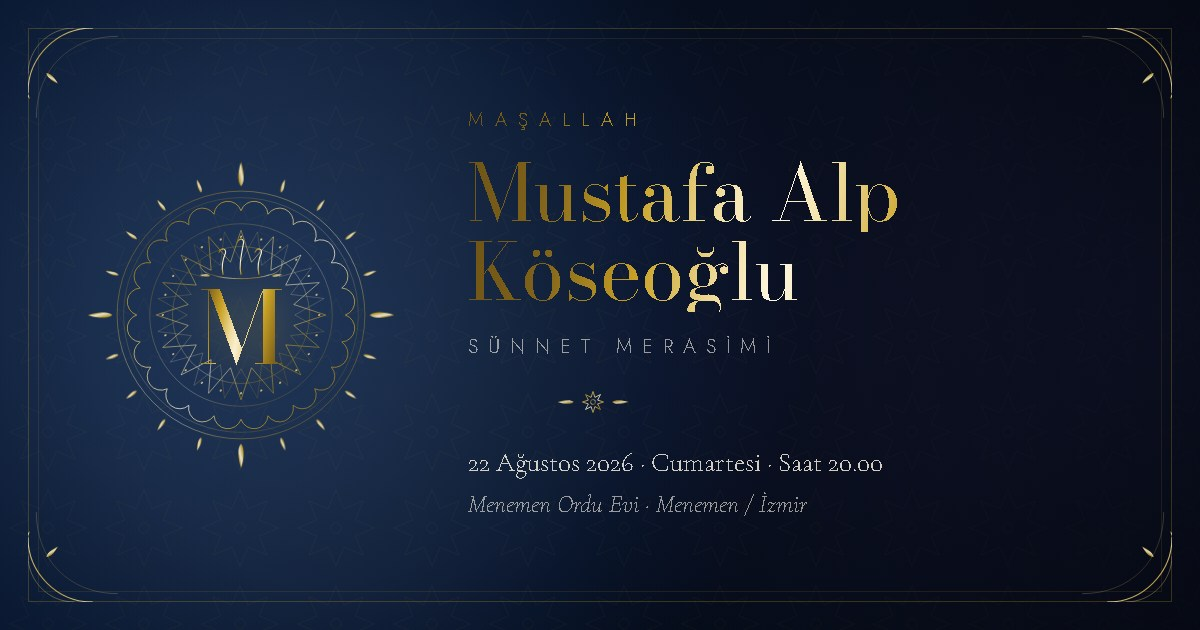
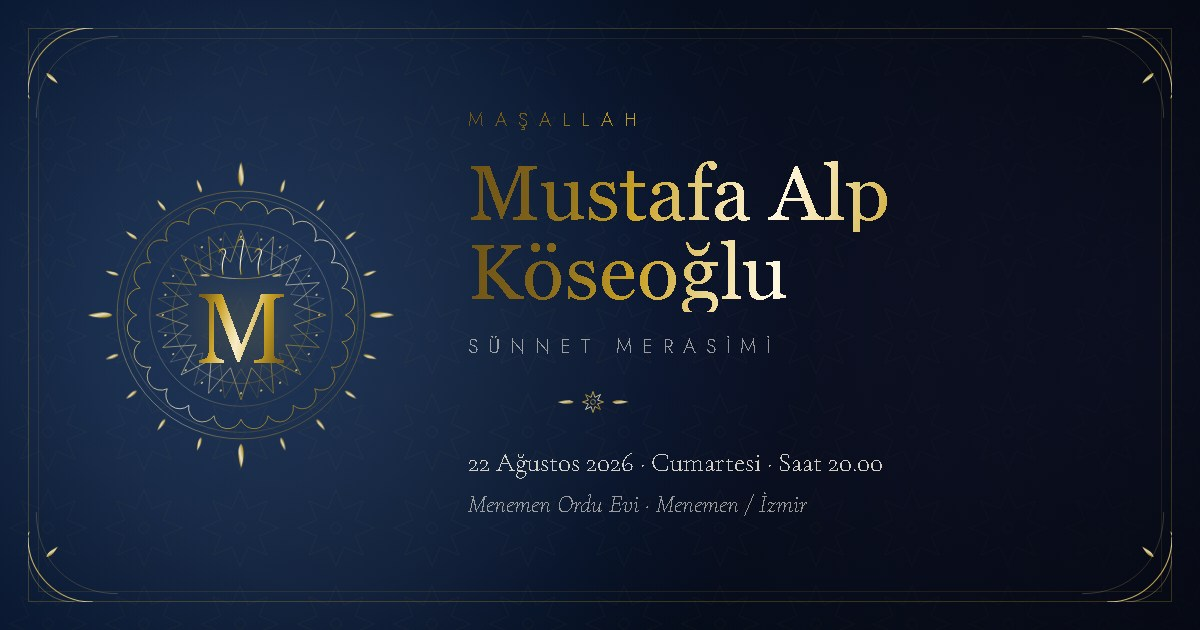
Ebeveyn isimleri tarih/mekan ustune alindi, kucuk metin kontrasti yukseltildi

Changed region(s): [[0.37, 0.2413, 0.7708, 0.5127], [0.1542, 0.4524, 0.2467, 0.6032]]

diff --git a/index.html b/index.html
@@ -51,7 +51,9 @@
   --altin-koyu:  #7E611A;
 
   --fildisi: #F2ECDE;
-  --sis:     rgba(242,236,222,.62);
+  /* Okunabilirlik: koyu zeminde .62 altı ikincil metin yaşlı gözler için zor,
+     tüm silik tonlar yükseltildi. */
+  --sis:     rgba(242,236,222,.82);
 
   --serif-display: "Bodoni Moda", "Didot", "Playfair Display", Georgia, serif;
   --serif-metin:   "Cormorant Garamond", Georgia, "Times New Roman", serif;
@@ -283,9 +285,9 @@ main{
 .isim .satir{display:block;white-space:nowrap}
 
 .merasim{
-  font-family:var(--sans);font-weight:300;
-  font-size:clamp(.63rem,2.7vw,.76rem);
-  letter-spacing:.52em;text-indent:.52em;text-transform:uppercase;
+  font-family:var(--sans);font-weight:400;
+  font-size:clamp(.72rem,3vw,.84rem);
+  letter-spacing:.42em;text-indent:.42em;text-transform:uppercase;
   color:var(--sis);
 }
 
@@ -297,9 +299,9 @@ main{
 
 /* ── davet metni ── */
 .davet{
-  font-size:clamp(1.13rem,4.9vw,1.4rem);
-  font-weight:300;line-height:1.95;letter-spacing:.012em;
-  color:rgba(242,236,222,.9);
+  font-size:clamp(1.2rem,5.2vw,1.48rem);
+  font-weight:400;line-height:1.9;letter-spacing:.012em;
+  color:rgba(242,236,222,.96);
   max-width:26ch;margin-inline:auto;
 }
 .davet em{
@@ -311,10 +313,10 @@ main{
 .kunye{margin-top:clamp(40px,9vw,60px)}
 .blok{margin-bottom:clamp(34px,8vw,48px)}
 .etiket{
-  font-family:var(--sans);font-weight:300;
-  font-size:clamp(.56rem,2.3vw,.65rem);
-  letter-spacing:.44em;text-indent:.44em;text-transform:uppercase;
-  color:rgba(201,162,39,.78);
+  font-family:var(--sans);font-weight:400;
+  font-size:clamp(.66rem,2.7vw,.76rem);
+  letter-spacing:.34em;text-indent:.34em;text-transform:uppercase;
+  color:rgba(244,227,172,.92);
   margin-bottom:clamp(12px,3vw,16px);
 }
 .deger{
@@ -323,8 +325,8 @@ main{
   color:var(--fildisi);
 }
 .deger .ince{
-  display:block;font-family:var(--serif-metin);font-weight:300;font-style:italic;
-  font-size:clamp(1rem,4.2vw,1.16rem);
+  display:block;font-family:var(--serif-metin);font-weight:400;font-style:italic;
+  font-size:clamp(1.1rem,4.6vw,1.26rem);
   color:var(--sis);margin-top:.42em;letter-spacing:.02em;
 }
 
@@ -335,8 +337,8 @@ main{
   font-size:clamp(1.15rem,5vw,1.5rem);
 }
 .saat .kucuk{
-  font-family:var(--sans);font-size:.55em;font-weight:300;
-  letter-spacing:.32em;text-transform:uppercase;color:var(--sis);
+  font-family:var(--sans);font-size:.6em;font-weight:400;
+  letter-spacing:.26em;text-transform:uppercase;color:var(--sis);
 }
 
 /* ── butonlar ── */
@@ -377,9 +379,9 @@ main{
 /* ── katılım bildirimi ── */
 .katilim{margin-top:clamp(6px,2vw,12px)}
 .katilim-not{
-  font-family:var(--serif-metin);font-weight:300;font-style:italic;
-  font-size:clamp(.95rem,3.9vw,1.08rem);line-height:1.65;
-  color:rgba(242,236,222,.56);
+  font-family:var(--serif-metin);font-weight:400;font-style:italic;
+  font-size:clamp(1.02rem,4.2vw,1.16rem);line-height:1.62;
+  color:rgba(242,236,222,.8);
   max-width:27ch;margin:0 auto clamp(22px,5vw,30px);
 }
 /* birincil: istediğimiz eylem, yaldız dolgulu */
@@ -390,8 +392,8 @@ main{
 }
 /* sessiz: eşit ağırlıkta olmamalı, sadece bir çıkış yolu */
 .dugme.sessiz{
-  border-color:rgba(242,236,222,.15);
-  background:none;color:rgba(242,236,222,.48);
+  border-color:rgba(242,236,222,.24);
+  background:none;color:rgba(242,236,222,.7);
 }
 .dugme.sessiz:hover,.dugme.sessiz:focus-visible{
   background:linear-gradient(180deg,rgba(242,236,222,.13),rgba(242,236,222,.04));
@@ -400,9 +402,9 @@ main{
 }
 .tel{
   display:inline-block;margin-top:clamp(20px,5vw,28px);
-  font-family:var(--sans);font-weight:300;
-  font-size:clamp(.62rem,2.5vw,.72rem);letter-spacing:.2em;
-  color:rgba(244,227,172,.55);text-decoration:none;
+  font-family:var(--sans);font-weight:400;
+  font-size:clamp(.7rem,2.8vw,.8rem);letter-spacing:.16em;
+  color:rgba(244,227,172,.85);text-decoration:none;
   border-bottom:1px solid rgba(201,162,39,.24);padding-bottom:.35em;
   transition:color .35s ease,border-color .35s ease;
 }
@@ -410,24 +412,24 @@ main{
 
 /* ── imza — ebeveynler ve nesep satırları ── */
 .imza{
-  margin-top:clamp(52px,12vw,80px);
+  margin-top:clamp(40px,9vw,58px);
   display:flex;flex-direction:column;
   gap:clamp(30px,7.5vw,42px);
 }
 .nesep{
-  font-family:var(--serif-metin);font-style:italic;font-weight:300;
-  font-size:clamp(.85rem,3.5vw,.98rem);letter-spacing:.02em;
-  color:rgba(242,236,222,.46);margin-bottom:.62rem;
+  font-family:var(--serif-metin);font-style:italic;font-weight:400;
+  font-size:clamp(.98rem,4vw,1.12rem);letter-spacing:.02em;
+  color:rgba(242,236,222,.76);margin-bottom:.62rem;
 }
 .imza .ad{
   font-family:var(--serif-display);font-weight:400;
-  font-size:clamp(1.18rem,5.2vw,1.5rem);letter-spacing:.05em;
+  font-size:clamp(1.3rem,5.6vw,1.62rem);letter-spacing:.05em;
 }
 .imza .rol{
-  font-family:var(--sans);font-weight:300;
-  font-size:clamp(.55rem,2.2vw,.63rem);
-  letter-spacing:.42em;text-indent:.42em;text-transform:uppercase;
-  color:rgba(242,236,222,.42);margin-top:.85rem;
+  font-family:var(--sans);font-weight:400;
+  font-size:clamp(.64rem,2.6vw,.74rem);
+  letter-spacing:.32em;text-indent:.32em;text-transform:uppercase;
+  color:rgba(242,236,222,.74);margin-top:.85rem;
 }
 
 /* geri sayım */
@@ -442,10 +444,10 @@ main{
   font-variant-numeric:tabular-nums;
 }
 .sayac .birim{
-  font-family:var(--sans);font-weight:300;
-  font-size:clamp(.5rem,2vw,.58rem);
-  letter-spacing:.26em;text-indent:.26em;text-transform:uppercase;
-  color:rgba(242,236,222,.45);margin-top:.6rem;
+  font-family:var(--sans);font-weight:400;
+  font-size:clamp(.58rem,2.3vw,.67rem);
+  letter-spacing:.22em;text-indent:.22em;text-transform:uppercase;
+  color:rgba(242,236,222,.75);margin-top:.6rem;
 }
 </style>
 </head>
@@ -507,6 +509,23 @@ main{
     bizleri onurlandıracaktır.
   </p>
 
+  <!-- Sıra: önce davet edenler, sonra tarih/mekân, en son katılım.
+       Kim çağırıyor → ne zaman → nerede → bildir. -->
+  <div class="imza gir" id="imza">
+    <div class="ebeveyn">
+      <p class="nesep">Merhum Mustafa Köseoğlu torunu</p>
+      <p class="ad varak">İsmail Köseoğlu</p>
+      <p class="rol">Baba</p>
+    </div>
+    <div class="ebeveyn">
+      <p class="nesep">Merhum Ali Benlioğlu torunu</p>
+      <p class="ad varak">Zerrin Köseoğlu</p>
+      <p class="rol">Anne</p>
+    </div>
+  </div>
+
+  <svg class="ayrac gir" viewBox="0 0 260 26" aria-hidden="true"></svg>
+
   <div class="kunye">
 
     <div class="blok gir">
@@ -516,7 +535,7 @@ main{
         <span class="ince">Cumartesi</span>
       </p>
       <p class="saat">
-        <span class="varak" data-alan="saat">13.00</span>
+        <span class="varak" data-alan="saat">20.00</span>
         <span class="kucuk">itibarıyla</span>
       </p>
     </div>
@@ -527,7 +546,7 @@ main{
       <p class="etiket">Mekân</p>
       <p class="deger" data-alan="mekan">
         Menemen Ordu Evi
-        <span class="ince">Esatpaşa Mah. Atatürk Cad. 212 Sk. · Kubilay, Menemen / İzmir</span>
+        <span class="ince">Esatpaşa Mah. Atatürk Cad. 212 Sk.<br>Kubilay · Menemen / İzmir</span>
       </p>
     </div>
 
@@ -561,21 +580,6 @@ main{
       </a>
     </div>
     <a class="tel" id="telBtn" href="#"></a>
-  </div>
-
-  <svg class="ayrac gir" viewBox="0 0 260 26" aria-hidden="true"></svg>
-
-  <div class="imza gir" id="imza">
-    <div class="ebeveyn">
-      <p class="nesep">Merhum Mustafa Köseoğlu torunu</p>
-      <p class="ad varak">İsmail Köseoğlu</p>
-      <p class="rol">Baba</p>
-    </div>
-    <div class="ebeveyn">
-      <p class="nesep">Merhum Ali Benlioğlu torunu</p>
-      <p class="ad varak">Zerrin Köseoğlu</p>
-      <p class="rol">Anne</p>
-    </div>
   </div>
 
 </main>
